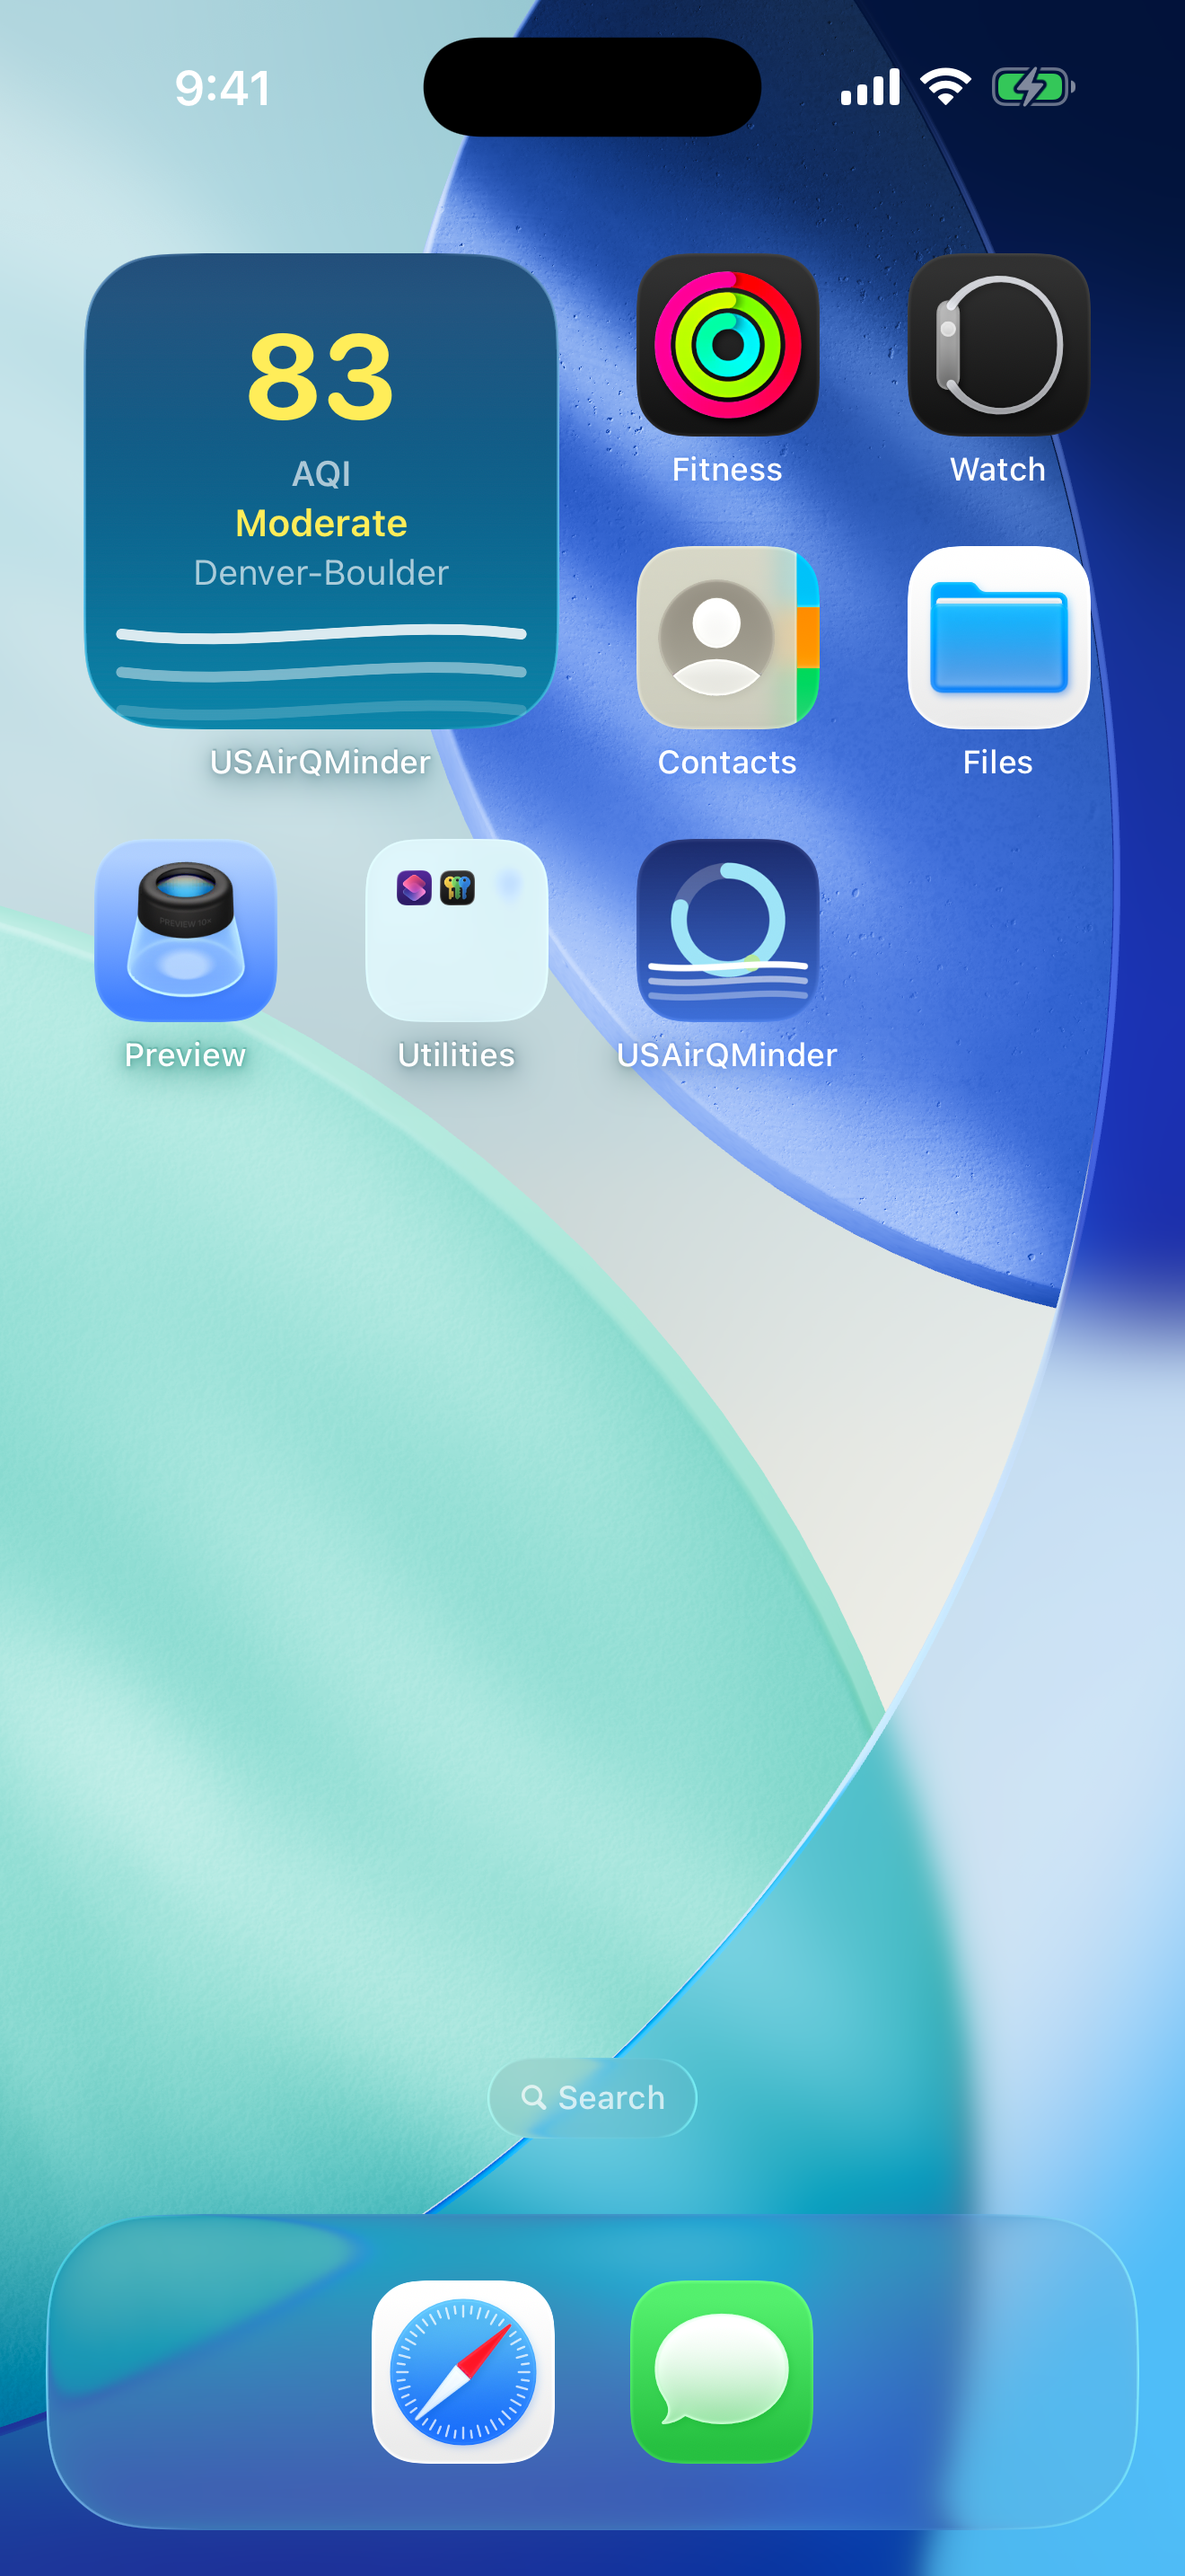
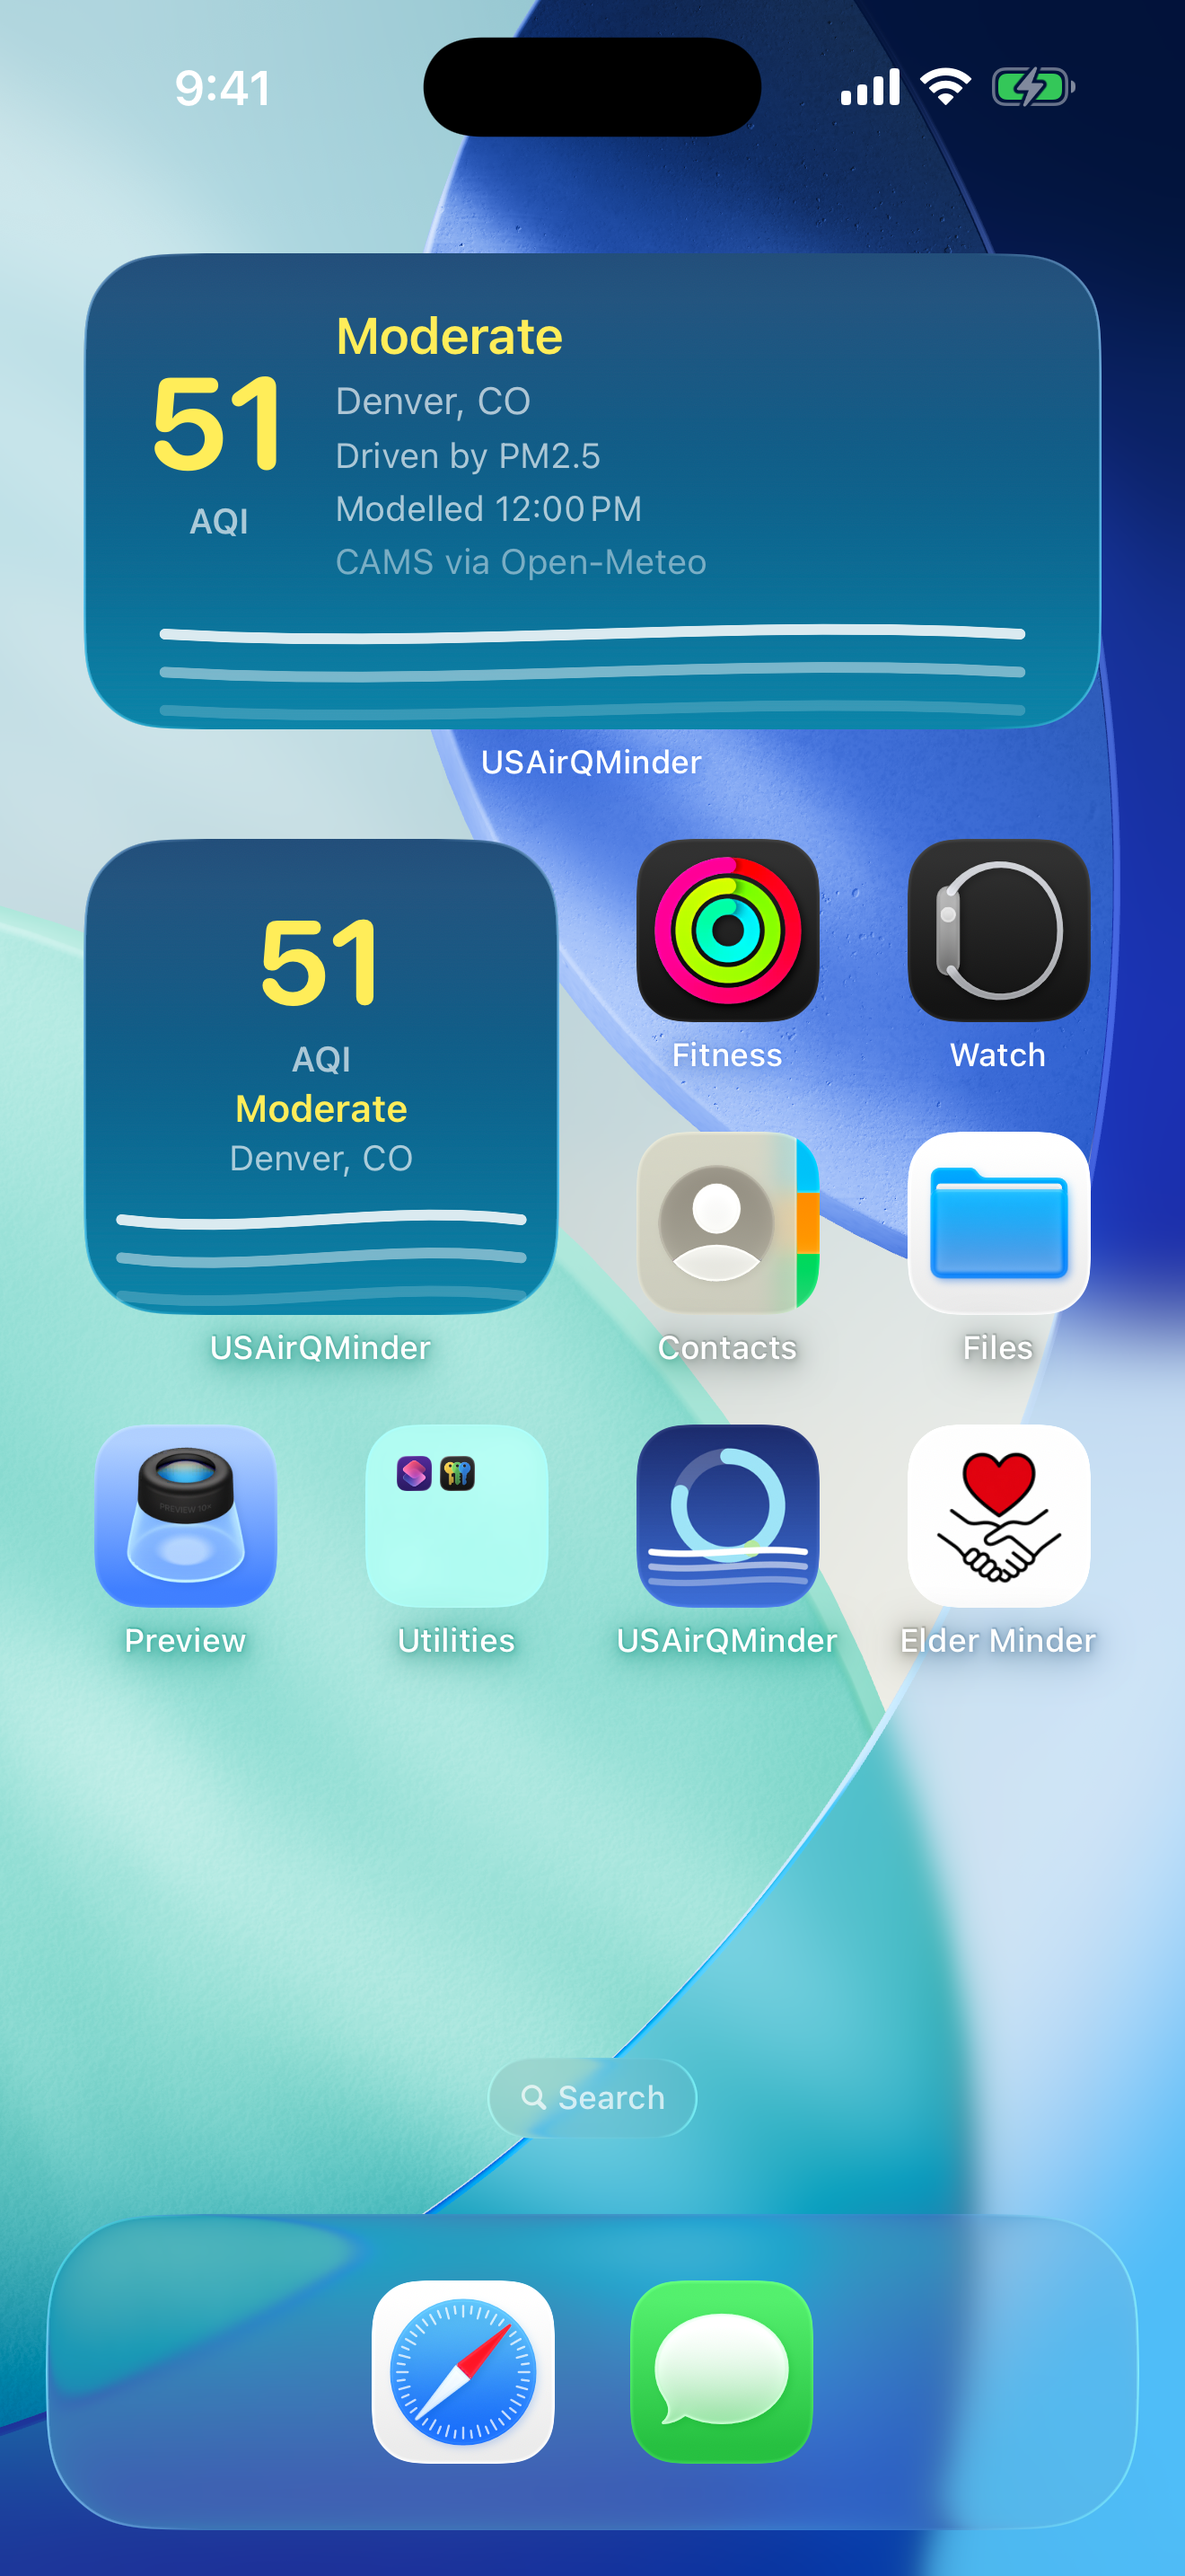
Recapture App Store screenshots against the Open-Meteo build
The old set was captured on the AirNow build and showed a "· N km away"
line that no longer exists, an "Observed" label now reading "Modelled for",
a settings screen built around the removed API key field, and none of the
CAMS/Open-Meteo attribution the licence requires be visible.

All 17 replaced, same filenames and sizes. Two are better than what they
replace: the widget preview and both home-screen shots now use the medium
widget, which is the size that carries the attribution, and the home-screen
shots show the small and medium sizes together.

Every city reads Moderate, which is worse than the set it replaces. The old
Portland shot came in at 170 and rendered the red Unhealthy band — the case
the app exists for. Before settling, a sweep of 22 US cities found nothing
above 74, so no location could have produced anything but a yellow dial
today. The four shots are near-interchangeable and the set now demonstrates
one of six bands.

Portland at 170 was luck rather than a property of Portland, so the note in
AppStore/README.md says to sweep for the current national maximum before
recapturing rather than trusting a city that was bad once. 01 and iPad-01
are worth redoing on a day with real smoke somewhere; the other 13 are done.

Changed region(s): [[0.0621, 0.0931, 0.9318, 0.6517]]

diff --git a/AppStore/README.md b/AppStore/README.md
@@ -1,5 +1,9 @@
 # App Store screenshots
 
+Recaptured 2026-08-17 against the Open-Meteo build. Every shot shows the
+"Modelled for" label, the CAMS/Open-Meteo attribution the licence requires, and
+a settings screen with no API key field.
+
 iPhone shots are 1320 × 2868 (6.9"), iPad shots 2064 × 2752 (13") — the two
 sizes App Store Connect requires, the iPad set because the app builds for both
 device families. Captured on simulators created for the purpose, so the home
@@ -7,31 +11,32 @@ screen holds nothing but the stock apps and this one.
 
 | File | Shows |
 |---|---|
-| `01-main-reading.png` | The reading. Denver, AQI 83, Moderate, live from AirNow |
-| `01-main-reading-losangeles.png` | Central LA, AQI 62, Moderate |
-| `01-main-reading-portland.png` | Portland OR, AQI 170, **Unhealthy** — the red band |
-| `01-main-reading-nashville.png` | Nashville, AQI 53, Moderate |
-| `02-settings.png` | Key field and update schedule |
+| `01-main-reading.png` | The reading. Denver, AQI 51, Moderate |
+| `01-main-reading-losangeles.png` | Central LA, AQI 53, Moderate |
+| `01-main-reading-portland.png` | Portland OR, AQI 51, Moderate |
+| `01-main-reading-nashville.png` | Nashville, AQI 55, Moderate |
+| `02-settings.png` | Update schedule and the data source note |
 | `03-widget-step1-touch-and-hold.png` | Touch and hold the home screen |
 | `04-widget-step2-add-widget.png` | Edit → Add Widget |
 | `05-widget-step3-choose-app.png` | Search for USAirQMinder |
-| `06-widget-step4-add.png` | The widget preview, then Add Widget |
-| `07-widget-on-home.png` | The widget on the home screen, live |
+| `06-widget-step4-add.png` | The medium widget preview, then Add Widget |
+| `07-widget-on-home.png` | Both widget sizes on the home screen, live |
 
 ### iPad (2064 × 2752)
 
 | File | Shows |
 |---|---|
-| `iPad-01-main-reading.png` | Denver, AQI 83, Moderate |
-| `iPad-01-main-reading-losangeles.png` | Central LA, AQI 62, Moderate |
-| `iPad-01-main-reading-portland.png` | Portland OR, AQI 170, **Unhealthy** — the red band |
-| `iPad-01-main-reading-nashville.png` | Nashville, AQI 53, Moderate |
+| `iPad-01-main-reading.png` | Denver, AQI 51, Moderate |
+| `iPad-01-main-reading-losangeles.png` | Central LA, AQI 53, Moderate |
+| `iPad-01-main-reading-portland.png` | Portland OR, AQI 51, Moderate |
+| `iPad-01-main-reading-nashville.png` | Nashville, AQI 55, Moderate |
 | `iPad-02-settings.png` | Settings, as a sheet |
-| `iPad-03-add-widget.png` | The widget picker with its sidebar |
-| `iPad-04-widget-on-home.png` | The widget on the home screen, live |
+| `iPad-03-add-widget.png` | The widget picker, USAirQMinder selected in the sidebar |
+| `iPad-04-widget-on-home.png` | Both widget sizes on the home screen, live |
 
-`02` and `iPad-02` are captured with the API key field **empty** on purpose. A
-real key in a public screenshot would be handing out someone's rate limit.
+There is no longer an API key field to keep out of frame. The old note about
+capturing `02` with the field empty, so a public screenshot couldn't hand out
+someone's rate limit, no longer applies.
 
 On iPad the reading screen lays out in two columns — dial on the left, category
 and detail beside it — and centres in the height. `iPad-01` shows that. The
@@ -69,13 +74,22 @@ anywhere in the country. Coordinates used:
 | Portland | `45.5152,-122.6784` |
 | Nashville | `36.1627,-86.7816` |
 
-Portland is the one worth leading with. At 170 it renders the red Unhealthy
-band, which is the case the app exists for — the three Moderate readings all
-look alike, and none of them shows what a bad-air day looks like. Readings are
-live, though, so a rerun will show whatever the air is doing that day.
+**All four now read Moderate, and that is a problem.** On the AirNow build,
+Portland came in at 170 and rendered the red Unhealthy band — the case the app
+exists for, and the obvious shot to lead with. On 2026-08-17 the whole country
+was clean: a sweep of 22 US cities found nothing above 74 (Spokane), so no
+location could produce anything but a yellow dial. The four shots are therefore
+near-interchangeable and the set demonstrates exactly one of the six bands.
+
+This is a scheduling problem, not a code one. Recapture `01` on a day with real
+smoke somewhere and the red shot comes back. To find one, sweep candidate cities
+for the current maximum before capturing rather than trusting a city that was
+bad last time — Portland is not reliably bad, it just happened to be.
 
 ## Still to do before submitting
 
-- The in-app clock in `01` reads the machine's real time, not 9:41, since the
-  status bar override doesn't reach inside the app. Only noticeable if you look
-  for it.
+- **Recapture `01` on a bad-air day** so the set shows more than the Moderate
+  band. See above — this is the one real gap.
+- The in-app "Last checked" line in `01` reads the machine's real time, not
+  9:41, since the status bar override doesn't reach inside the app. Only
+  noticeable if you look for it.
